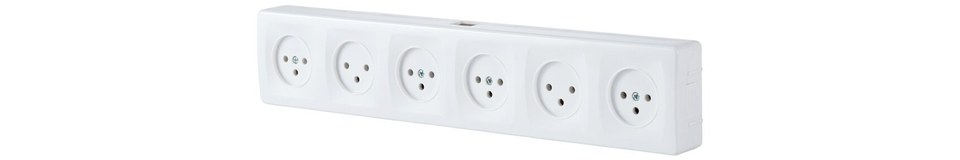
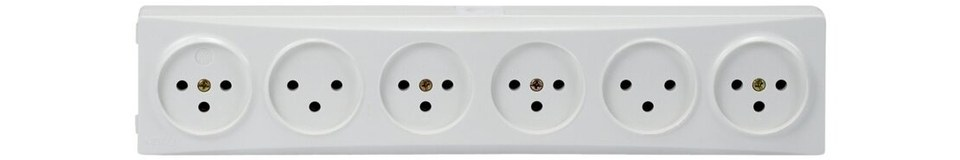
הכנות חשמל: השקעים הישראליים (יחיד, כפול, משולש, רביעייה, שישייה) מצילומי סדרת N-NB של ניסקו

diff --git a/src/app.js b/src/app.js
@@ -70,13 +70,13 @@ const CONNS = {
   pwr:     { n: 'חשמל', c: '#a32222', sq: 1 },
   rca:     { n: 'RCA', c: '#c98a2e' },
   /* הכנות חשמל — שקע ביתי חד-פאזי, סיקון (CEE) חד-פאזי כחול, סיקון תלת-פאזי אדום; כבל מהם = חשמל */
-  /* צילומים: Nisko סדרת SUPER N על הטיח + שקעים תעשייתיים (data/rear_images/conn-*.jpg). cw = רוחב התא בפאנל (גובה 38px) */
-  si16:    { n: 'שקע חד-פאזי 16A', c: '#a32222', pw: 1, img: 'conn-si16.jpg', v: 2, cw: 40 },
+  /* צילומים: Nisko — שקעים ישראליים מסדרת N-NB על הטיח, מוגן מים SUPER N IP65, שקעים תעשייתיים (data/rear_images/conn-*.jpg). cw = רוחב התא בפאנל (גובה 38px) */
+  si16:    { n: 'שקע חד-פאזי 16A', c: '#a32222', pw: 1, img: 'conn-si16.jpg', v: 3, cw: 40 },
   si16w:   { n: 'שקע מוגן מים IP65', c: '#a32222', pw: 1, img: 'conn-si16w.jpg', v: 2, cw: 40 },
-  strip2:  { n: 'שקע כפול', c: '#a32222', pw: 1, img: 'conn-strip2.jpg', v: 2, cw: 76 },
-  strip3:  { n: 'שקע משולש', c: '#a32222', pw: 1, img: 'conn-strip3.jpg', v: 2, cw: 112 },
-  strip4:  { n: 'רביעייה', c: '#a32222', pw: 1, img: 'conn-strip4.jpg', v: 2, cw: 148 },
-  strip6:  { n: 'שישייה', c: '#a32222', pw: 1, img: 'conn-strip6.jpg', v: 2, cw: 220 },
+  strip2:  { n: 'שקע כפול', c: '#a32222', pw: 1, img: 'conn-strip2.jpg', v: 3, cw: 76 },
+  strip3:  { n: 'שקע משולש', c: '#a32222', pw: 1, img: 'conn-strip3.jpg', v: 3, cw: 112 },
+  strip4:  { n: 'רביעייה', c: '#a32222', pw: 1, img: 'conn-strip4.jpg', v: 3, cw: 148 },
+  strip6:  { n: 'שישייה', c: '#a32222', pw: 1, img: 'conn-strip6.jpg', v: 3, cw: 220 },
   cee16:   { n: 'סיקון חד-פאזי 16A', c: '#1565c0', pw: 1, amp: 16, img: 'conn-cee1.jpg', v: 2, cw: 40 },
   cee32:   { n: 'סיקון חד-פאזי 32A', c: '#1565c0', pw: 1, amp: 32, img: 'conn-cee1.jpg', v: 2, cw: 40 },
   cee16x3: { n: 'סיקון תלת-פאזי 16A', c: '#c62828', pw: 1, amp: 16, ph3: 1, img: 'conn-cee3.jpg', v: 2, cw: 40 },
